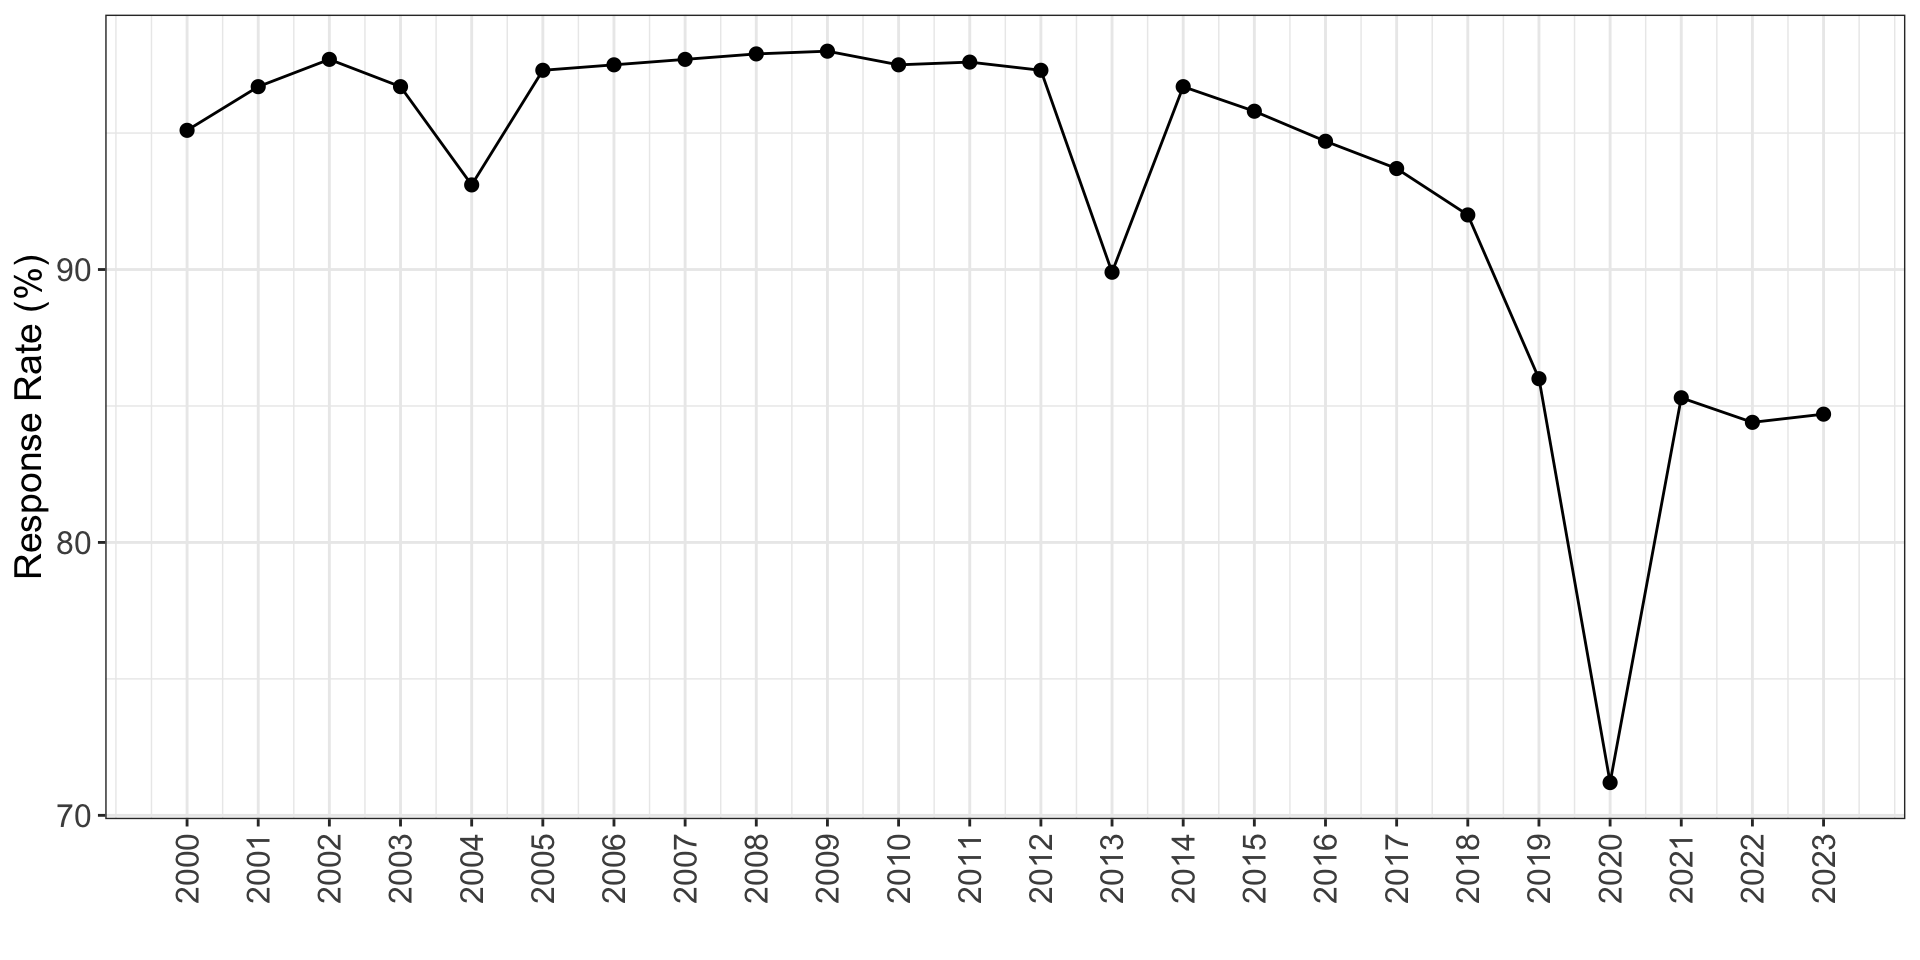
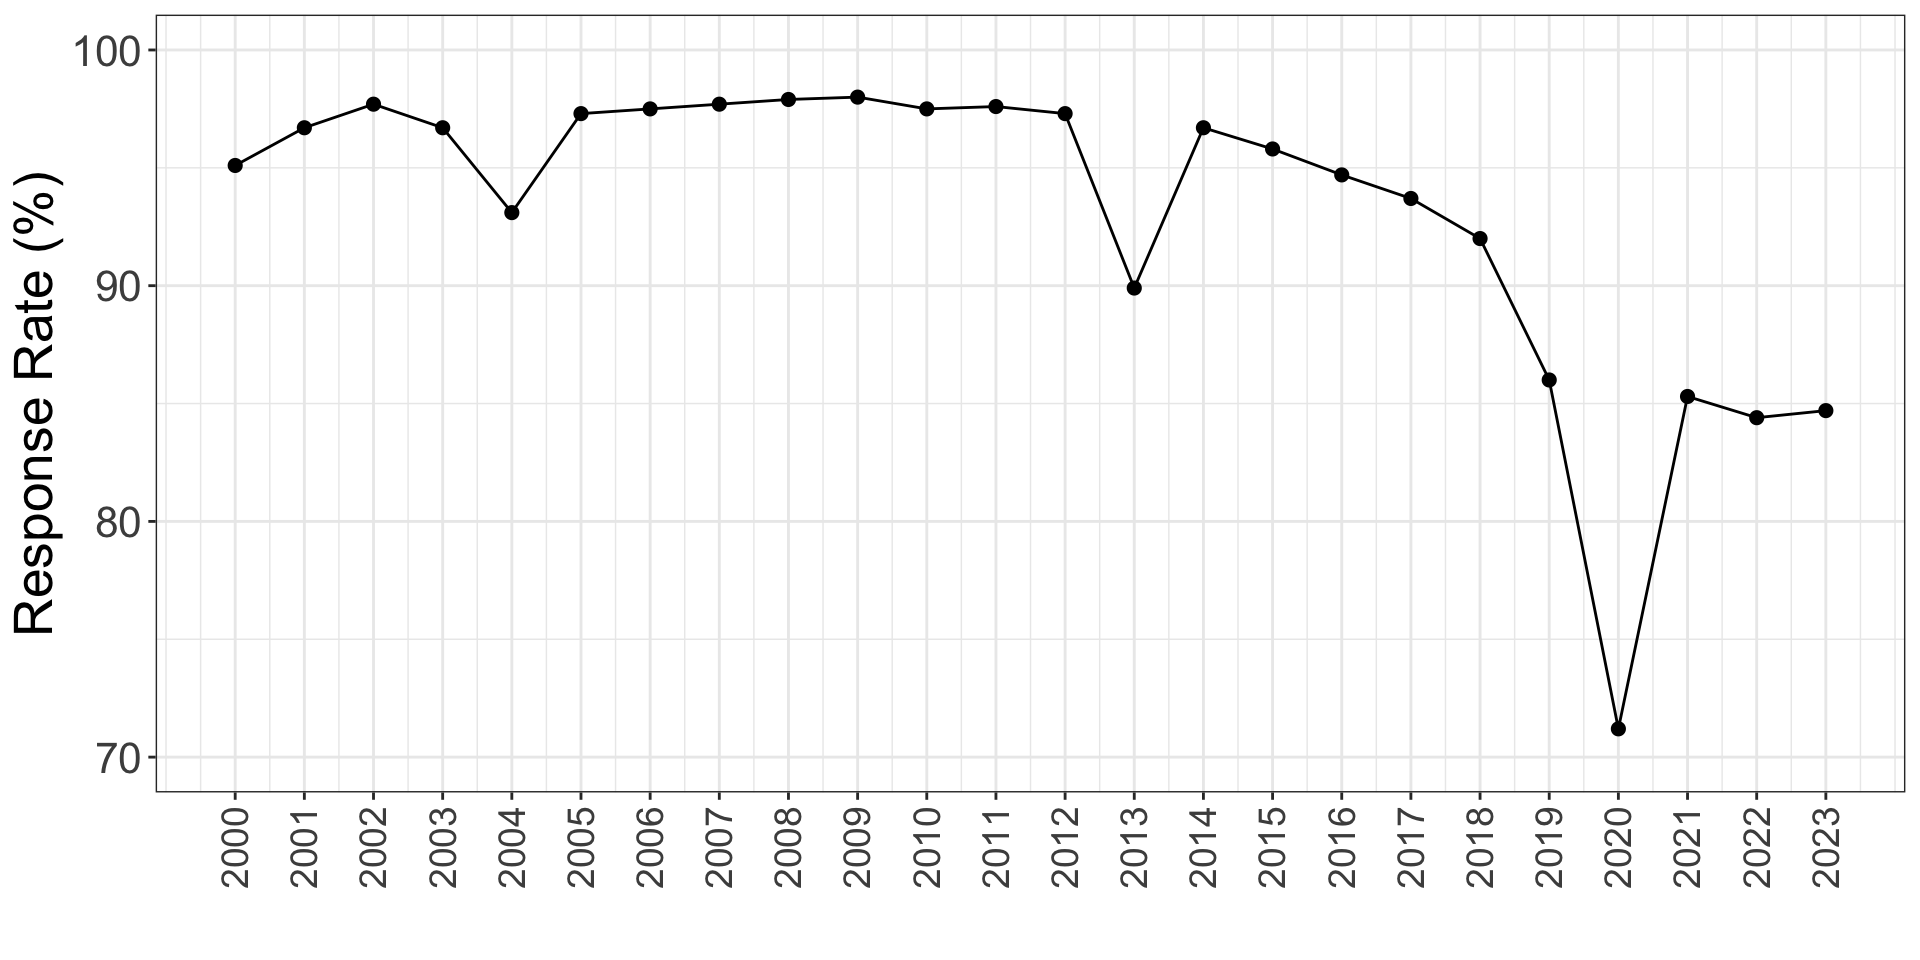
updating L17

diff --git a/docs/PUBHBIO7225_L17_nonresponse.html b/docs/PUBHBIO7225_L17_nonresponse.html
@@ -200,18 +200,24 @@ Generative AI acknowledgment: Google Gemini was used to generate alt text for so
 
 <img data-src="figures/TSEdiagram.png" alt="A flowchart diagram of the Total Survey Error (TSE) framework. The diagram is split into two main vertical columns, &quot;Measurement&quot; on the left and &quot;Representation&quot; on the right. In the Measurement column, the flow goes from &quot;Construct&quot; to &quot;Measurement&quot; to &quot;Response&quot; to &quot;Edited Data.&quot; Red arrows pointing to the right of each step label the sources of error: &quot;Specification Error (Validity)&quot; for the first step, &quot;Measurement Error&quot; for the second, and &quot;Processing Error&quot; for the third. The Representation column flows from &quot;Target Population&quot; to &quot;Sampling Frame&quot; to &quot;Sample&quot; to &quot;Respondents&quot; to &quot;Postsurvey Adjustments.&quot; Similarly, red arrows label the errors at each step: &quot;Coverage Error,&quot; &quot;Sampling Error,&quot; &quot;Nonresponse Error,&quot; and &quot;Adjustment Error.&quot; Both columns converge at the bottom, with arrows from &quot;Edited Data&quot; and &quot;Postsurvey Adjustments&quot; pointing to a final box labeled &quot;Survey Statistic.&quot;" class="r-stretch quarto-figure-center"><p class="caption">Adapted from Groves et al.&nbsp;(2009), Survey Methodology, 2nd Edition</p><p>…but it is arguably the biggest source of error, or at least one of the biggest</p>
 </section>
-<section id="how-nonresponse-causes-bias" class="slide level2">
+<section id="how-nonresponse-causes-bias" class="slide level2 pause">
 <h2>How Nonresponse Causes Bias</h2>
 <ul>
-<li>Imagine that the target population can be partitioned into two strata: <strong>respondents</strong> and <strong>nonrespondents</strong></li>
+<li>Imagine that the target population can be partitioned into two groups: <strong>respondents</strong> and <strong>nonrespondents</strong></li>
 </ul>
 <table class="caption-top">
+<colgroup>
+<col style="width: 29%">
+<col style="width: 17%">
+<col style="width: 29%">
+<col style="width: 24%">
+</colgroup>
 <thead>
 <tr class="header">
-<th style="text-align: left;"><strong>Stratum</strong></th>
-<th style="text-align: left;"><strong>Size</strong></th>
-<th style="text-align: left;"><strong>Mean</strong></th>
-<th style="text-align: left;"><strong>Variance</strong></th>
+<th style="text-align: left;"><strong>Group</strong></th>
+<th style="text-align: left;"><strong>Population Size</strong></th>
+<th style="text-align: left;"><strong>Population Mean</strong></th>
+<th style="text-align: left;"><strong>Population Variance</strong></th>
 </tr>
 </thead>
 <tbody>
@@ -236,16 +242,84 @@ Generative AI acknowledgment: Google Gemini was used to generate alt text for so
 </tbody>
 </table>
 <ul>
-<li><p>The overall population mean is a weighted average of the two stratum means: <span class="math display">\[\bar{y}_U = \frac{N_R}{N} \bar{y}_{RU} + \frac{N_{NR}}{N} \bar{y}_{NRU}\]</span></p></li>
-<li><p>Now suppose we take an SRS of size <span class="math inline">\(n\)</span>, and <span class="math inline">\(n_R\)</span> units respond.</p>
+<li>The overall population mean is a weighted average of the two group means: <span class="math display">\[\bar{y}_U = \frac{N_R}{N} \bar{y}_{RU} + \frac{N_{NR}}{N} \bar{y}_{NRU}\]</span></li>
+</ul>
+<div class="fragment">
 <ul>
-<li><p>Respondent mean is an unbiased estimate of the <strong>respondent mean</strong>: <span class="math inline">\(E[\bar{y}_R] = \bar{y}_{RU}\)</span></p></li>
-<li><p>It’s not an unbiased estimate of the <strong>overall mean</strong>: <span class="math inline">\(E[\bar{y}_R] \ne \bar{y}_U\)</span></p></li>
-<li><p>…unless the mean is the same for respondents and nonrespondents (i.e., unless <span class="math inline">\(\bar{y}_{RU} = \bar{y}_{NRU} = \bar{y}_U\)</span>)</p></li>
+<li><p>Now suppose we take an SRS of size <span class="math inline">\(n\)</span> (from the full population of <span class="math inline">\(N\)</span> units), and <span class="math inline">\(n_R\)</span> units respond</p>
+<ul>
+<li><p>Respondents are (by definition) all from the “Respondents” group</p></li>
+<li><p>Nonrespondents are from the “Nonrespondents” group</p></li>
 </ul></li>
 </ul>
+</div>
 </section>
-<section id="how-nonresponse-causes-bias-cont" class="slide level2">
+<section id="how-nonresponse-causes-bias-cont" class="slide level2 pause">
+<h2>How Nonresponse Causes Bias (con’t)</h2>
+<table class="caption-top">
+<colgroup>
+<col style="width: 29%">
+<col style="width: 17%">
+<col style="width: 29%">
+<col style="width: 24%">
+</colgroup>
+<thead>
+<tr class="header">
+<th style="text-align: left;"><strong>Group</strong></th>
+<th style="text-align: left;"><strong>Population Size</strong></th>
+<th style="text-align: left;"><strong>Population Mean</strong></th>
+<th style="text-align: left;"><strong>Population Variance</strong></th>
+</tr>
+</thead>
+<tbody>
+<tr class="odd">
+<td style="text-align: left;">Respondents</td>
+<td style="text-align: left;"><span class="math inline">\(N_R\)</span></td>
+<td style="text-align: left;"><span class="math inline">\(\bar{y}_{RU}\)</span></td>
+<td style="text-align: left;"><span class="math inline">\(S^2_R\)</span></td>
+</tr>
+<tr class="even">
+<td style="text-align: left;">Non-Respondents</td>
+<td style="text-align: left;"><span class="math inline">\(N_{NR}\)</span></td>
+<td style="text-align: left;"><span class="math inline">\(\bar{y}_{NRU}\)</span></td>
+<td style="text-align: left;"><span class="math inline">\(S^2_{NR}\)</span></td>
+</tr>
+<tr class="odd">
+<td style="text-align: left;">Total</td>
+<td style="text-align: left;"><span class="math inline">\(N\)</span></td>
+<td style="text-align: left;"><span class="math inline">\(\bar{y}_U\)</span></td>
+<td style="text-align: left;"><span class="math inline">\(S^2\)</span></td>
+</tr>
+</tbody>
+</table>
+<ul>
+<li><p>Sample size: <span class="math inline">\(n\)</span></p></li>
+<li><p>Number of respondents: <span class="math inline">\(n_R\)</span></p></li>
+<li><p>Sample mean based on respondents only: <span class="math inline">\(\bar{y}_R\)</span></p></li>
+</ul>
+<div class="fragment">
+<ul>
+<li><p><span class="math inline">\(E[\bar{y}_R] = \bar{y}_{RU}\)</span></p>
+<ul>
+<li>Respondent sample mean is an unbiased estimate of the <strong>respondent</strong> mean</li>
+</ul></li>
+</ul>
+</div>
+<div class="fragment">
+<ul>
+<li><p><span class="math inline">\(E[\bar{y}_R] \ne \bar{y}_U\)</span></p>
+<ul>
+<li>Respondent sample mean is <strong>not</strong> an unbiased estimate of the <strong>overall</strong> mean</li>
+</ul></li>
+</ul>
+</div>
+<div class="fragment">
+<ul>
+<li>…unless the mean is the same for respondents and nonrespondents (i.e., unless <span class="math inline">\(\bar{y}_{RU} = \bar{y}_{NRU} = \bar{y}_U\)</span>)</li>
+</ul>
+</div>
+</section>
+<section id="how-nonresponse-causes-bias-cont-1" class="slide level2 pause">
 <h2>How Nonresponse Causes Bias (con’t)</h2>
 <ul>
 <li><p>The bias of the respondent mean is: <span class="math display">\[\begin{aligned}
@@ -254,16 +328,20 @@ Generative AI acknowledgment: Google Gemini was used to generate alt text for so
 \end{aligned}\]</span></p></li>
 <li><p>Bias in the respondent mean depends on <span class="alert">nonresponse rate</span> and diﬀerence between <span class="alert2">respondents and nonrespondents</span></p></li>
 <li><p>We cannot ever actually know this bias – we don’t observe the nonrespondents (can’t estimate <span class="math inline">\(\bar{y}_{NRU}\)</span>)</p></li>
+</ul>
+<div class="fragment">
+<ul>
 <li><p>But this expression tells us that <strong>nonresponse bias is small if</strong>:</p>
 <ol type="1">
-<li><p><span class="alert">Nonresponse rate is small</span> <span class="math inline">\(\left( \frac{N_{NR}}{N}\text{ close to 0}\right)\)</span><br>
+<li><p><span class="alert">Nonresponse rate is small</span> (<span class="math inline">\(\frac{N_{NR}}{N}\)</span> close to 0)<br>
 or</p></li>
 <li><p><span class="alert2">Mean for nonrespondents is close to the mean for the respondents</span> <span class="math inline">\((\bar{y}_{NRU} \approx \bar{y}_{RU})\)</span></p></li>
 </ol></li>
 <li><p>We can’t ever know if <span class="alert2">(2)</span> is true, so our best bet is to try to achieve <span class="alert">(1)</span></p></li>
 </ul>
+</div>
 </section>
-<section id="how-nonresponse-causes-bias-cont-1" class="slide level2">
+<section id="how-nonresponse-causes-bias-cont-2" class="slide level2 pause">
 <h2>How Nonresponse Causes Bias (con’t)</h2>
 <ul>
 <li><p>Some additional comments:</p>
@@ -277,10 +355,14 @@ or</p></li>
 <li><p>Best strategy is to try to avoid nonresponse altogether!</p></li>
 </ul>
 <p><br></p>
+<div class="fragment">
+<blockquote>
+<p><strong>Key idea:</strong> If an outcome, <span class="math inline">\(y\)</span>, is “related” to nonresponse – i.e., it differs between respondents and nonrespondents – then an estimate based on respondents only will be biased (without additional adjustment)</p>
+</blockquote>
 <ul>
-<li><p><strong>Key idea:</strong> If an outcome, <span class="math inline">\(y\)</span>, is “related” to nonresponse – i.e., it differs between respondents and nonrespondents – then an estimate based on respondents only will be biased (without additional adjustment)</p></li>
-<li><p>Essentially, if there is nonresponse, the best-case scenario is that the respondents are a <strong>random sample</strong> of the full sample.</p></li>
+<li>Essentially, if there is nonresponse, the best-case scenario is that the respondents are a <strong>random sample</strong> of the full sample.</li>
 </ul>
+</div>
 </section>
 <section id="activity-17.1-part-1" class="slide level2">
 <h2>Activity 17.1 (Part 1)</h2>
@@ -331,8 +413,16 @@ or</p></li>
 <p><br></p>
 <p><strong>And What Can Be Done To Mitigate/Prevent It?</strong></p>
 </section>
+<section id="a-particular-growing-problem" class="slide level2">
+<h2>A Particular Growing Problem</h2>
+<ul>
+<li>Looking at the ACS reasons for nonresponse shows that <strong>refusal</strong> is a growing problem</li>
+</ul>
+
+<img data-src="PUBHBIO7225_L17_nonresponse_files/figure-revealjs/unnamed-chunk-2-1.png" class="quarto-figure quarto-figure-center r-stretch" alt="A line graph depicting the American Community Survey Housing Unit percentage of refusals and percentage of no one at home from 2000 to 2023. The y-axis ranges from 0% to 10%. The graph shows a striking increase in percent of refusals around 2017, jumping up from around 2.5% to around 9% in 2023. The percentage of no one home is steady around 1% until around 2020 when there is a modest increase to around 2% in 2023." width="960"></section>
 <section id="designing-surveys-to-minimize-nonresponse" class="slide level2">
 <h2>Designing Surveys to Minimize Nonresponse</h2>
+<p>Many “design” considerations to maximize response rates:</p>
 <div class="smaller-text">
 <ul>
 <li class="fragment"><p><strong>Survey mode selection</strong> – some modes generally provide higher response rates; sensitive topics may provide better response with self-administered modes</p></li>
@@ -369,7 +459,7 @@ or</p></li>
 <section id="taxonomy-of-missing-data" class="slide level2">
 <h2>Taxonomy of Missing Data</h2>
 <ul>
-<li><p>We classify missing data based on the <span class="alert2">underlying reason the data are missing</span></p></li>
+<li><p>We classify missing data based on the <span class="alert2"><strong>underlying reason the data are missing</strong></span></p></li>
 <li><p>In general, not testable – just an assumption</p></li>
 <li><p>Three types of missing data:</p>
 <ul>
@@ -377,14 +467,14 @@ or</p></li>
 <li><p><strong>MAR:</strong> Missing At Random 😐</p></li>
 <li><p><strong>MNAR:</strong> Missing Not At Random 😱</p></li>
 </ul></li>
-<li><p>Defined by what is associated with the probability of missingness (or conversely, with the probability of response)</p></li>
+<li><p>Defined by what factors are associated with the probability of missingness (or conversely, with the probability of response)</p></li>
 </ul>
 </section>
 <section id="notation" class="slide level2">
 <h2>Notation</h2>
 <ul>
-<li><p><span class="math inline">\(y_i\)</span> = survey outcome of interest for unit <span class="math inline">\(i\)</span>, <span class="alert">only observed for respondents</span></p></li>
-<li><p><span class="math inline">\(\mathbf{x}_i\)</span> = vector of information known about unit <span class="math inline">\(i\)</span>, <span class="alert2">observed for ALL sampled units</span></p>
+<li><p><span class="math inline">\(y_i\)</span> = survey outcome of interest for unit <span class="math inline">\(i\)</span>, <span class="alert">only observed for <strong>respondents</strong></span></p></li>
+<li><p><span class="math inline">\(\mathbf{x}_i\)</span> = vector of information known about unit <span class="math inline">\(i\)</span>, <span class="alert2">observed for <strong>ALL sampled units</strong></span></p>
 <ul>
 <li>E.g., design information (stratum, cluster membership), or data available on the sampling frame</li>
 </ul></li>
@@ -397,7 +487,7 @@ or</p></li>
 <li><p><span class="math inline">\(\pi_i = P(Z_i=1)\)</span> = selection probability (known!)</p></li>
 </ul>
 </section>
-<section id="mcar-missing-completely-at-random" class="slide level2">
+<section id="mcar-missing-completely-at-random" class="slide level2 pause">
 <h2>MCAR: Missing Completely At Random</h2>
 <blockquote>
 <p><span class="alert2"><strong>MCAR</strong></span> = Best-case scenario: &nbsp; <span class="math inline">\(P(R_i=1 | y_i, \mathbf{x}_i) = P(R_i=1)\)</span><br>
@@ -415,12 +505,16 @@ Probability a variable has missing values does not depend on any factors/variabl
 <li><p><span class="math inline">\(\bar{y}_{RU} = \bar{y}_{NRU}\)</span> &nbsp; → &nbsp; <span class="math inline">\(\text{Bias}(\bar{y}_R) =  \frac{N_{NR}}{N} (\bar{y}_{RU} - \bar{y}_{NRU}) = \frac{N_{NR}}{N} \times 0 = 0\)</span></p></li>
 </ul></li>
 <li><p>A complete case analysis implicitly makes this assumption!</p></li>
+</ul>
+<div class="fragment">
+<ul>
 <li><p>Estimates of <strong>survey totals</strong> will be <strong>biased</strong> (literally not counting up enough people!)</p></li>
 <li><p>Estimates of quantities like <strong>means</strong> or <strong>proportions</strong> will be <strong>unbiased</strong></p></li>
 <li><p><strong>Standard errors</strong> will be <strong>larger than if no nonresponse</strong></p></li>
 </ul>
+</div>
 </section>
-<section id="mar-missing-at-random" class="slide level2">
+<section id="mar-missing-at-random" class="slide level2 pause">
 <h2>MAR: Missing At Random</h2>
 <blockquote>
 <p><span class="alert2"><strong>MAR</strong></span> = Next-best-case scenario: &nbsp; <span class="math inline">\(P(R_i=1 | y_i, \mathbf{x}_i) = P(R_i=1|\mathbf{x}_i)\)</span><br>
@@ -437,9 +531,13 @@ Probability a variable has missing values depends on observed data</p>
 <ul>
 <li>Since we observe how the respondents and nonrespondents diﬀer, we can adjust for it</li>
 </ul></li>
+</ul>
+<div class="fragment">
+<ul>
 <li><p>Estimates for a <span class="math inline">\(y\)</span> that is related to the variable(s) that diﬀer between respondents and nonrespondents will be <strong>biased</strong></p></li>
 <li><p>But, we can adjust survey weights to “make-up” the diﬀerence and remove bias (coming next lecture!)</p></li>
 </ul>
+</div>
 </section>
 <section id="example-mar" class="slide level2">
 <h2>Example: MAR</h2>
@@ -566,7 +664,7 @@ Probability a variable has missing values depends on observed data</p>
 <p><br></p>
 <p><em>Note: this assumes that marital status is on the sampling frame – so that we know it for all sampled women – so we know whose weights to double!</em></p>
 </section>
-<section id="mnar-missing-not-at-random-sometimes-nmar" class="slide level2">
+<section id="mnar-missing-not-at-random-sometimes-nmar" class="slide level2 pause">
 <h2>MNAR: Missing Not At Random (sometimes NMAR)</h2>
 <blockquote>
 <p><span class="alert2"><strong>MNAR</strong></span> = Worst-case scenario: &nbsp; <span class="math inline">\(P(R_i=1 | y_i, \mathbf{x}_i) = P(R_i=1|y_i, \mathbf{x}_i)\)</span><br>
@@ -579,10 +677,14 @@ Probability a variable has missing values depends on values of unobserved data</
 <li><p>Higher income earners less likely to report their income than low wage earners, but this information isn’t on the sampling frame</p></li>
 </ul></li>
 <li><p><span class="alert">Nonrespondents are diﬀerent from respondents</span>, and we <span class="alert">do not observe the characteristic(s) that make them diﬀerent</span></p></li>
+</ul>
+<div class="fragment">
+<ul>
 <li><p>Can never know if we have MNAR (not possible to test for it)</p></li>
 <li><p>Inference under MNAR generally requires us to posit a model for the response mechanism where response depends on unobserved variables (like a survey outcome, <span class="math inline">\(y\)</span>), which we can never confirm is correct</p></li>
 <li><p>Usually we assume MAR, and (sometimes) assess how wrong our conclusions would be if the truth were MNAR – called a <strong>sensitivity analysis</strong></p></li>
 </ul>
+</div>
 </section>
 <section id="activity-17.1-part-2" class="slide level2">
 <h2>Activity 17.1 (Part 2)</h2>
